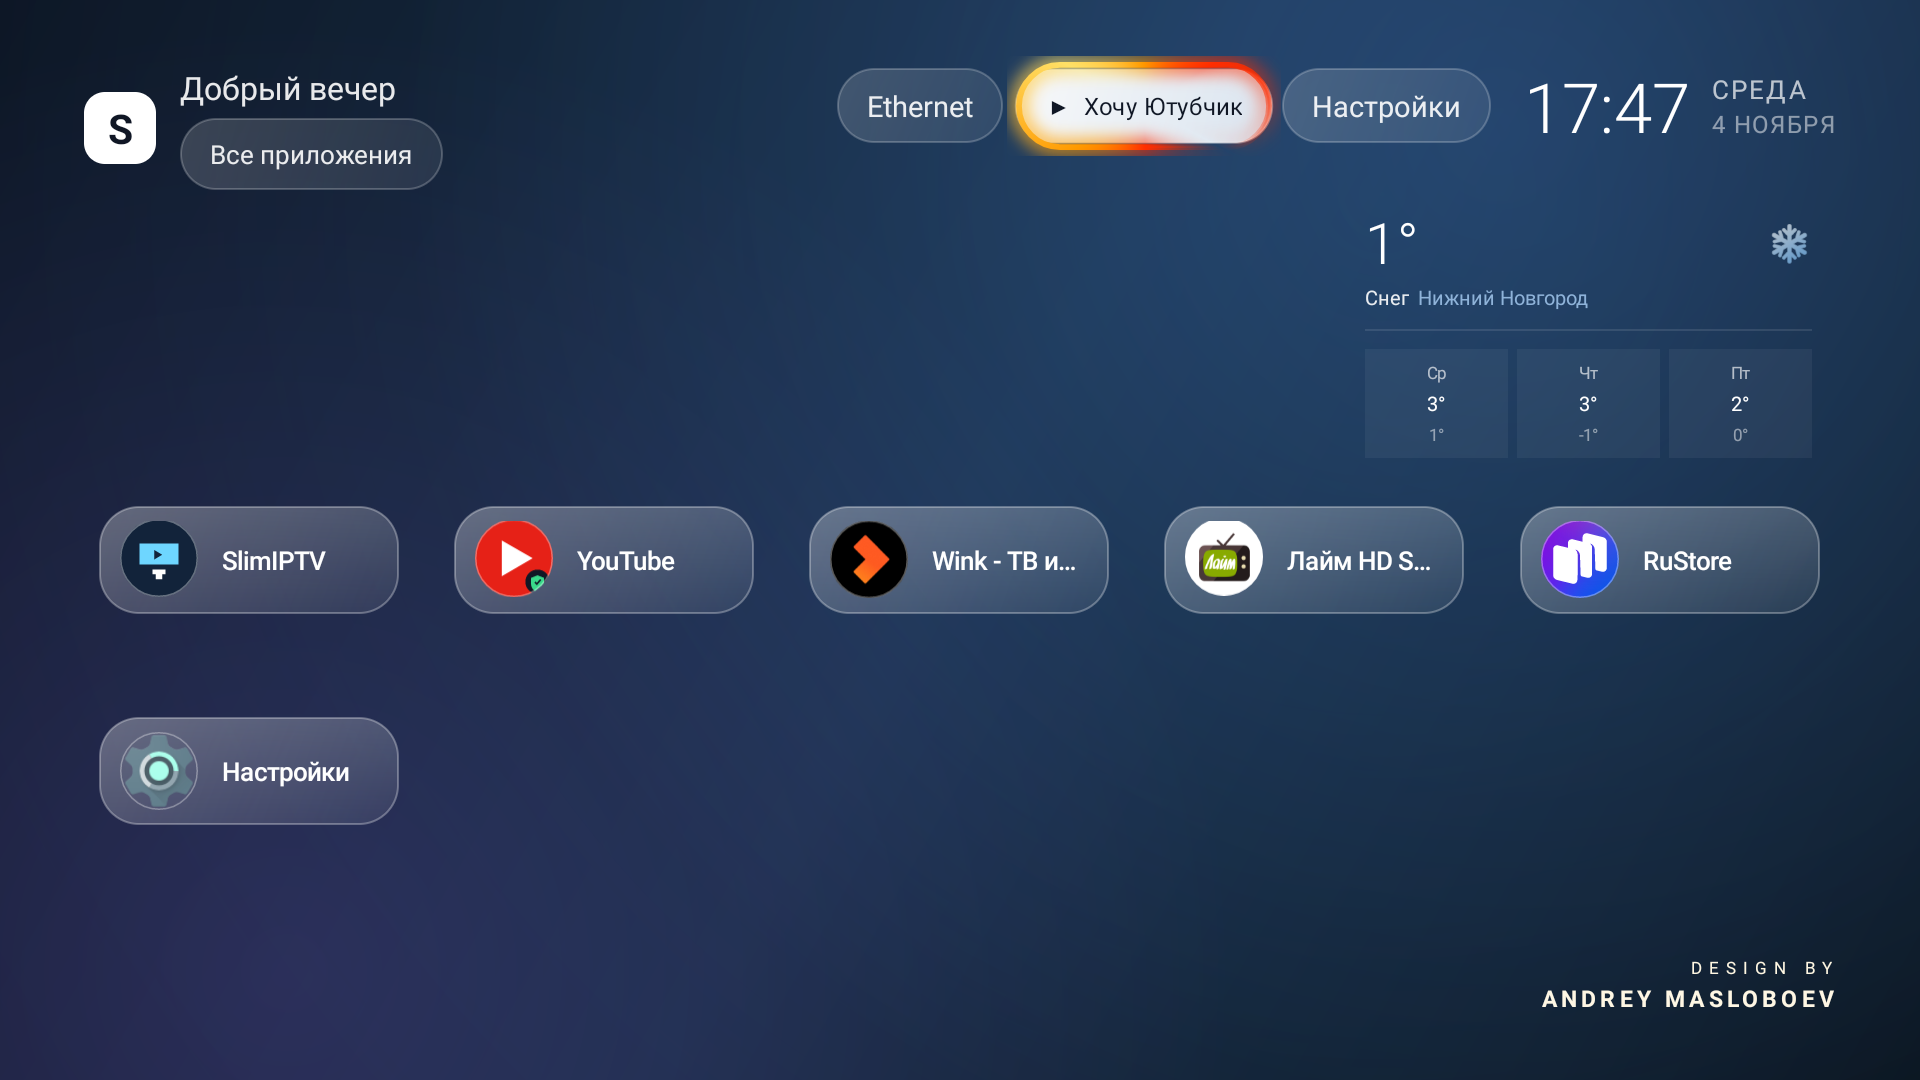
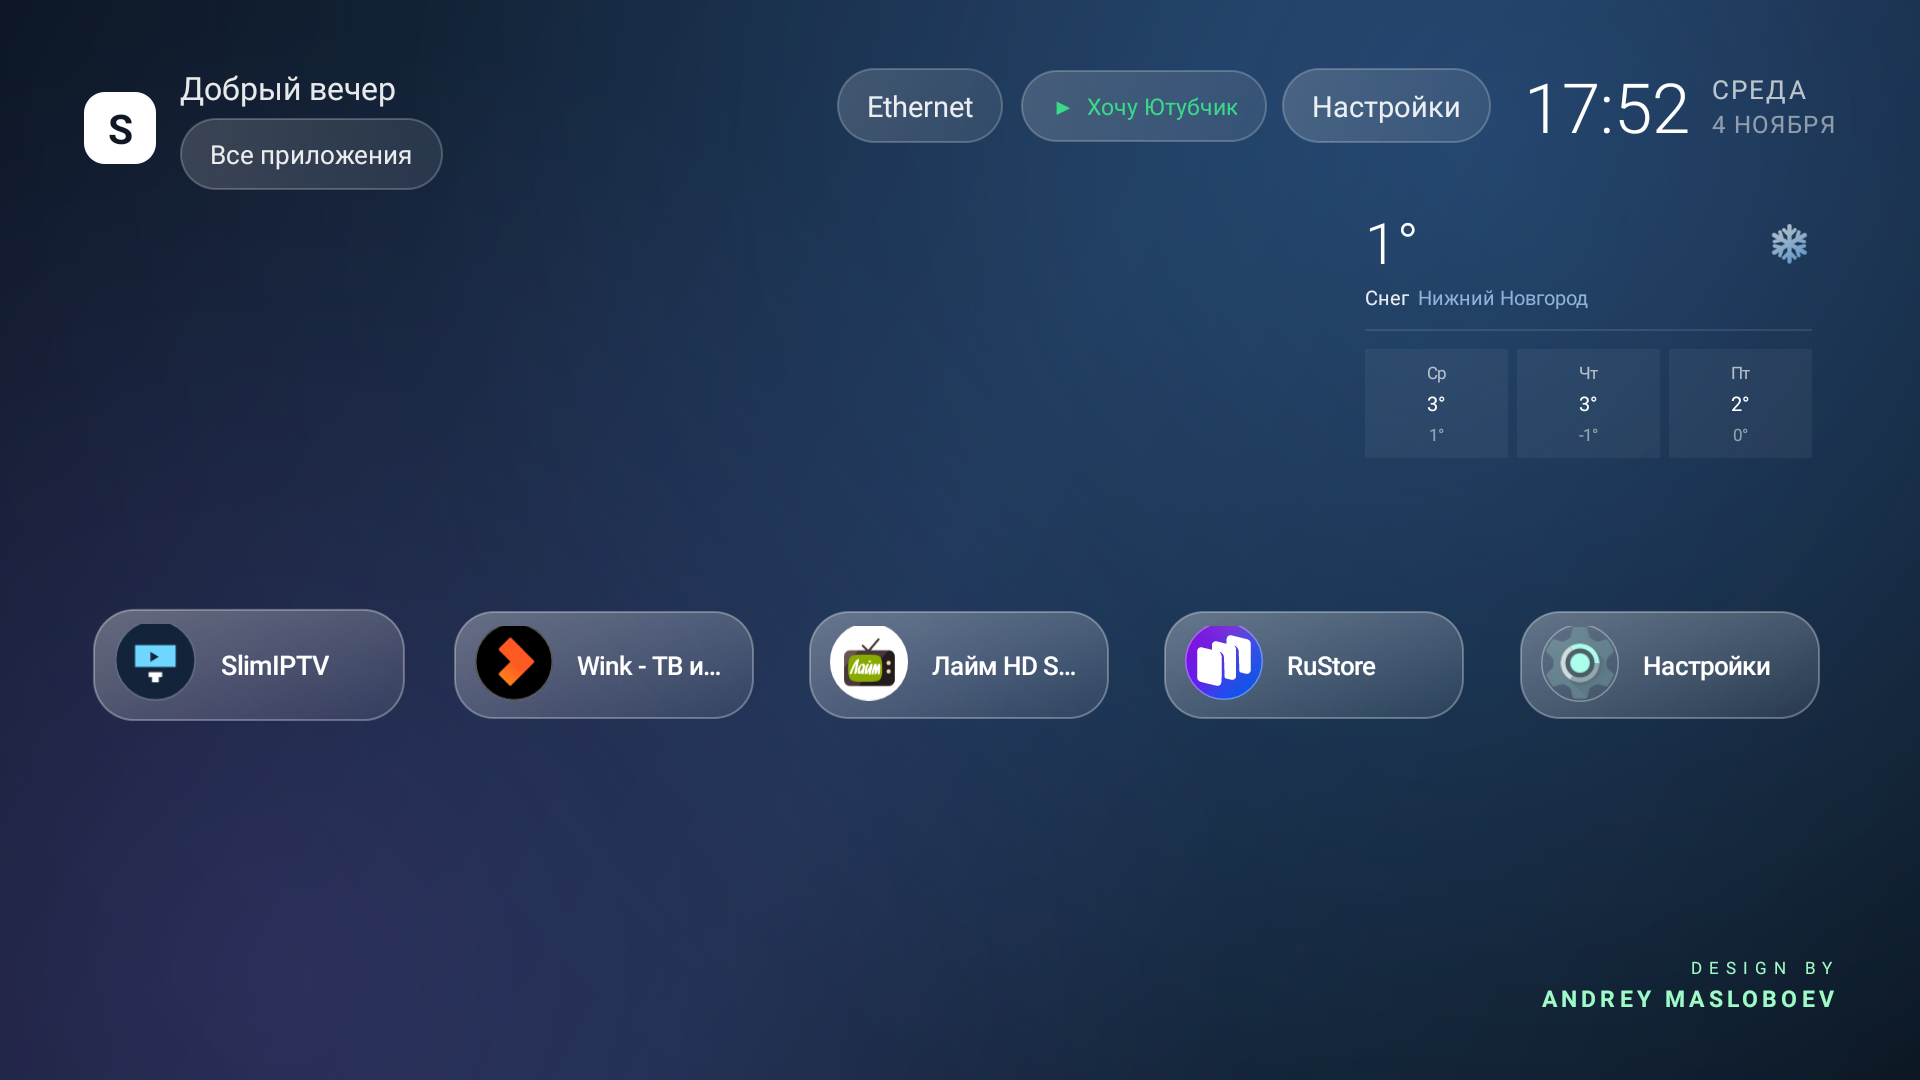
SlimHome 3.7: плитка YouTube скрыта с главного экрана

diff --git a/app/src/main/java/com/slimhome/launcher/MainActivity.java b/app/src/main/java/com/slimhome/launcher/MainActivity.java
@@ -757,6 +757,7 @@ public class MainActivity extends Activity {
                 "io.github.sumyabazar1.weather", // погода уже есть карточкой
                   "com.android.gallery3d",    // галерея
                   "com.google.android.youtube.tv", // YouTube запускается кнопкой SlimVPN
+                  "com.slimtube.app",           // YouTube — только кнопкой «Хочу Ютубчик»
                   "com.slimvpn.app"           // SlimVPN — отдельной кнопкой в панели
         ));
 
@@ -769,7 +770,6 @@ public class MainActivity extends Activity {
         // закреплённые приложения идут первыми, дальше — по алфавиту
         final List<String> pinned = java.util.Arrays.asList(
                 "com.slimiptv.player",     // SlimIPTV — первым на главном экране
-                "com.slimtube.app",     // YouTube со встроенным VPN
                 "ru.rt.video.app.tv",      // Wink
                 "tv.limehd.stb",           // Лайм HD
                 "ru.vk.store.tv",          // RuStore

diff --git a/CHANGELOG.md b/CHANGELOG.md
@@ -1,15 +1,10 @@
 # Изменения
 
+## 3.7
+
+- плитка YouTube (SlimTube) скрыта с главного экрана — запуск остался на кнопке «▶ Хочу Ютубчик» и цифре 2;
+- в сетке снова 5 плиток в ряд: SlimIPTV, Wink, Лайм HD, RuStore, Настройки.
+
 ## 3.6
 
-- **огненное кольцо** вокруг кнопки «▶ Хочу Ютубчик» при фокусе: вращающийся градиент (жёлтый → оранжевый → красный),
-  свечение через BlurMaskFilter, пульсация пламени и лёгкое увеличение кнопки;
-- текст на сфокусированной кнопке становится тёмным для контраста, при потере фокуса возвращается цвет состояния.
-
-## 3.5
-
-- кнопка «▶ Хочу Ютубчик» (заглавная «Ю»).
-
-## 3.4
-
-- плитка YouTube теперь запускает SlimTube; официальный YouTube отключён.
+- огненное кольцо вокруг кнопки «▶ Хочу Ютубчик» при фокусе (вращающийся градиент, свечение, пульсация).
